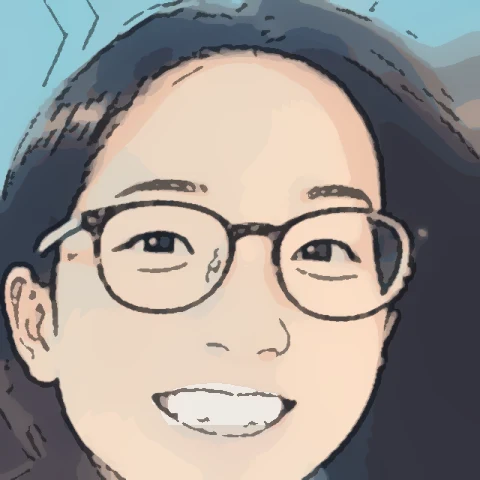
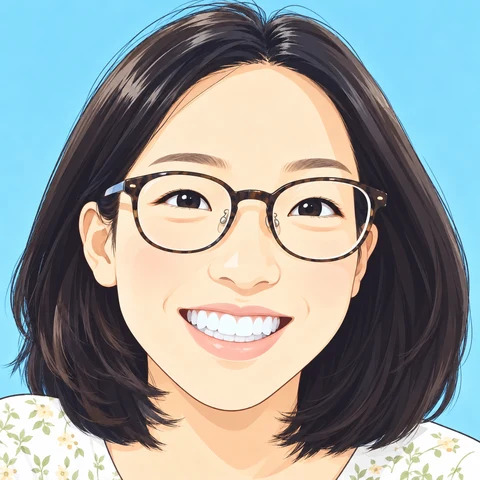
about のYappカードを写真なしの案内に、Swiss News の about に和食へのリンク、開発者の絵を差し替え
Claude-Session: https://claude.ai/code/session_0178WUEPZibnhGYD7hiP6JYX

diff --git a/templates/includes/yapp_about_card.html b/templates/includes/yapp_about_card.html
@@ -1,23 +1,23 @@
 {% load static %}
-{# アプリの about ページの最後に置く、Yapp の紹介カード (Swiss News・スイスで和食で共通)。 #}
+{# アプリの about ページに置く、Yapp トップへの案内カード (Swiss News・スイスで和食で共通)。 #}
 <style>
-.yapp-about-card { display: flex; align-items: center; gap: 16px; margin: 8px 0; padding: 16px 18px; border-radius: 18px; background: #fff8ef; border: 1px solid #f0dcc6; color: #3a2f3a; text-decoration: none; }
-.yapp-about-card:hover { background: #fff1e0; color: #3a2f3a; }
-.yapp-about-card__face { flex: none; width: 64px; height: 64px; border-radius: 50%; object-fit: cover; border: 3px solid #fff; box-shadow: 0 4px 12px rgba(60,40,30,.15); }
-.yapp-about-card__body { display: flex; flex-direction: column; gap: 4px; min-width: 0; }
-.yapp-about-card__body strong { font-size: 15px; font-weight: 900; }
-.yapp-about-card__body span { font-size: 13px; line-height: 1.7; color: #6b5d5d; }
-.yapp-about-card__body em { font-style: normal; font-size: 13px; font-weight: 800; color: #c4572c; }
-html[data-washoku-theme="dark"] .yapp-about-card,
-.news-dark .yapp-about-card { background: #2a2530; border-color: #3d3545; color: #f3ecf5; }
-html[data-washoku-theme="dark"] .yapp-about-card__body span,
-.news-dark .yapp-about-card__body span { color: #c9bccb; }
+.yapp-about-card { position: relative; display: block; margin: 8px 0; padding: 20px 20px 18px; border-radius: 20px; overflow: hidden; color: #fff; text-decoration: none; background: linear-gradient(135deg, #2b2147 0%, #4a2f6b 55%, #c0567a 100%); box-shadow: 0 10px 24px rgba(43,33,71,.22); }
+.yapp-about-card:hover { color: #fff; filter: brightness(1.05); }
+.yapp-about-card__icons { display: flex; align-items: center; gap: 8px; margin-bottom: 14px; }
+.yapp-about-card__icons img { width: 38px; height: 38px; border-radius: 10px; box-shadow: 0 3px 10px rgba(0,0,0,.25); }
+.yapp-about-card__icons span { display: grid; place-items: center; width: 38px; height: 38px; border-radius: 10px; background: rgba(255,255,255,.16); font-size: 20px; }
+.yapp-about-card strong { display: block; margin-bottom: 6px; font-size: 17px; font-weight: 900; line-height: 1.5; }
+.yapp-about-card p { margin: 0 0 14px; font-size: 13.5px; line-height: 1.8; color: #f1e8f6; }
+.yapp-about-card em { display: inline-flex; align-items: center; gap: 6px; padding: 9px 18px; border-radius: 99px; background: #fff; color: #3a2a5a; font-style: normal; font-size: 13px; font-weight: 900; }
 </style>
-<a class="yapp-about-card" href="{% url 'portal:home' %}#about">
-    <img class="yapp-about-card__face" src="{% static 'portal/images/founder.webp' %}" alt="" width="64" height="64">
-    <span class="yapp-about-card__body">
-        <strong>スイス在住の開発者が、ひとりで作っています</strong>
-        <span>ほかのアプリや、作った人の話はこちらから。</span>
-        <em>Yappのトップを見る ›</em>
+<a class="yapp-about-card" href="{% url 'portal:home' %}">
+    <span class="yapp-about-card__icons" aria-hidden="true">
+        <img src="{% static 'pwa/news/icon-192.png' %}" alt="" width="38" height="38">
+        <img src="{% static 'pwa/washoku/icon-192.png' %}" alt="" width="38" height="38">
+        <img src="{% static 'pwa/outings/icon-192.png' %}" alt="" width="38" height="38">
+        <span>🎮</span><span>🎨</span><span>📅</span>
     </span>
+    <strong>Yappには、<br>ほかにもアプリがいっぱい！</strong>
+    <p>スイスのニュース、和食、お出かけ、ちょっとしたゲームまで。季節ごとに表情が変わる Yapp のトップを、のぞいてみてください。</p>
+    <em>Yappのトップへ ›</em>
 </a>

diff --git a/news/templates/news/about.html b/news/templates/news/about.html
@@ -189,6 +189,32 @@ Swiss Newsについて | Swiss News
 
                 {% include "includes/yapp_about_card.html" %}
 
+                <a
+                    href="{% url 'washoku:home' %}"
+                    class="news-about-services-link"
+                >
+
+                    <span class="news-about-services-copy">
+
+                        <strong>
+                            🍙 スイスで和食
+                        </strong>
+
+                        <small>
+                            スイスの食材で和食を。食材の買い方も、みんなで教え合えます
+                        </small>
+
+                    </span>
+
+                    <span
+                        class="news-about-services-arrow"
+                        aria-hidden="true"
+                    >
+                        →
+                    </span>
+
+                </a>
+
             </div>
 
         </section>
